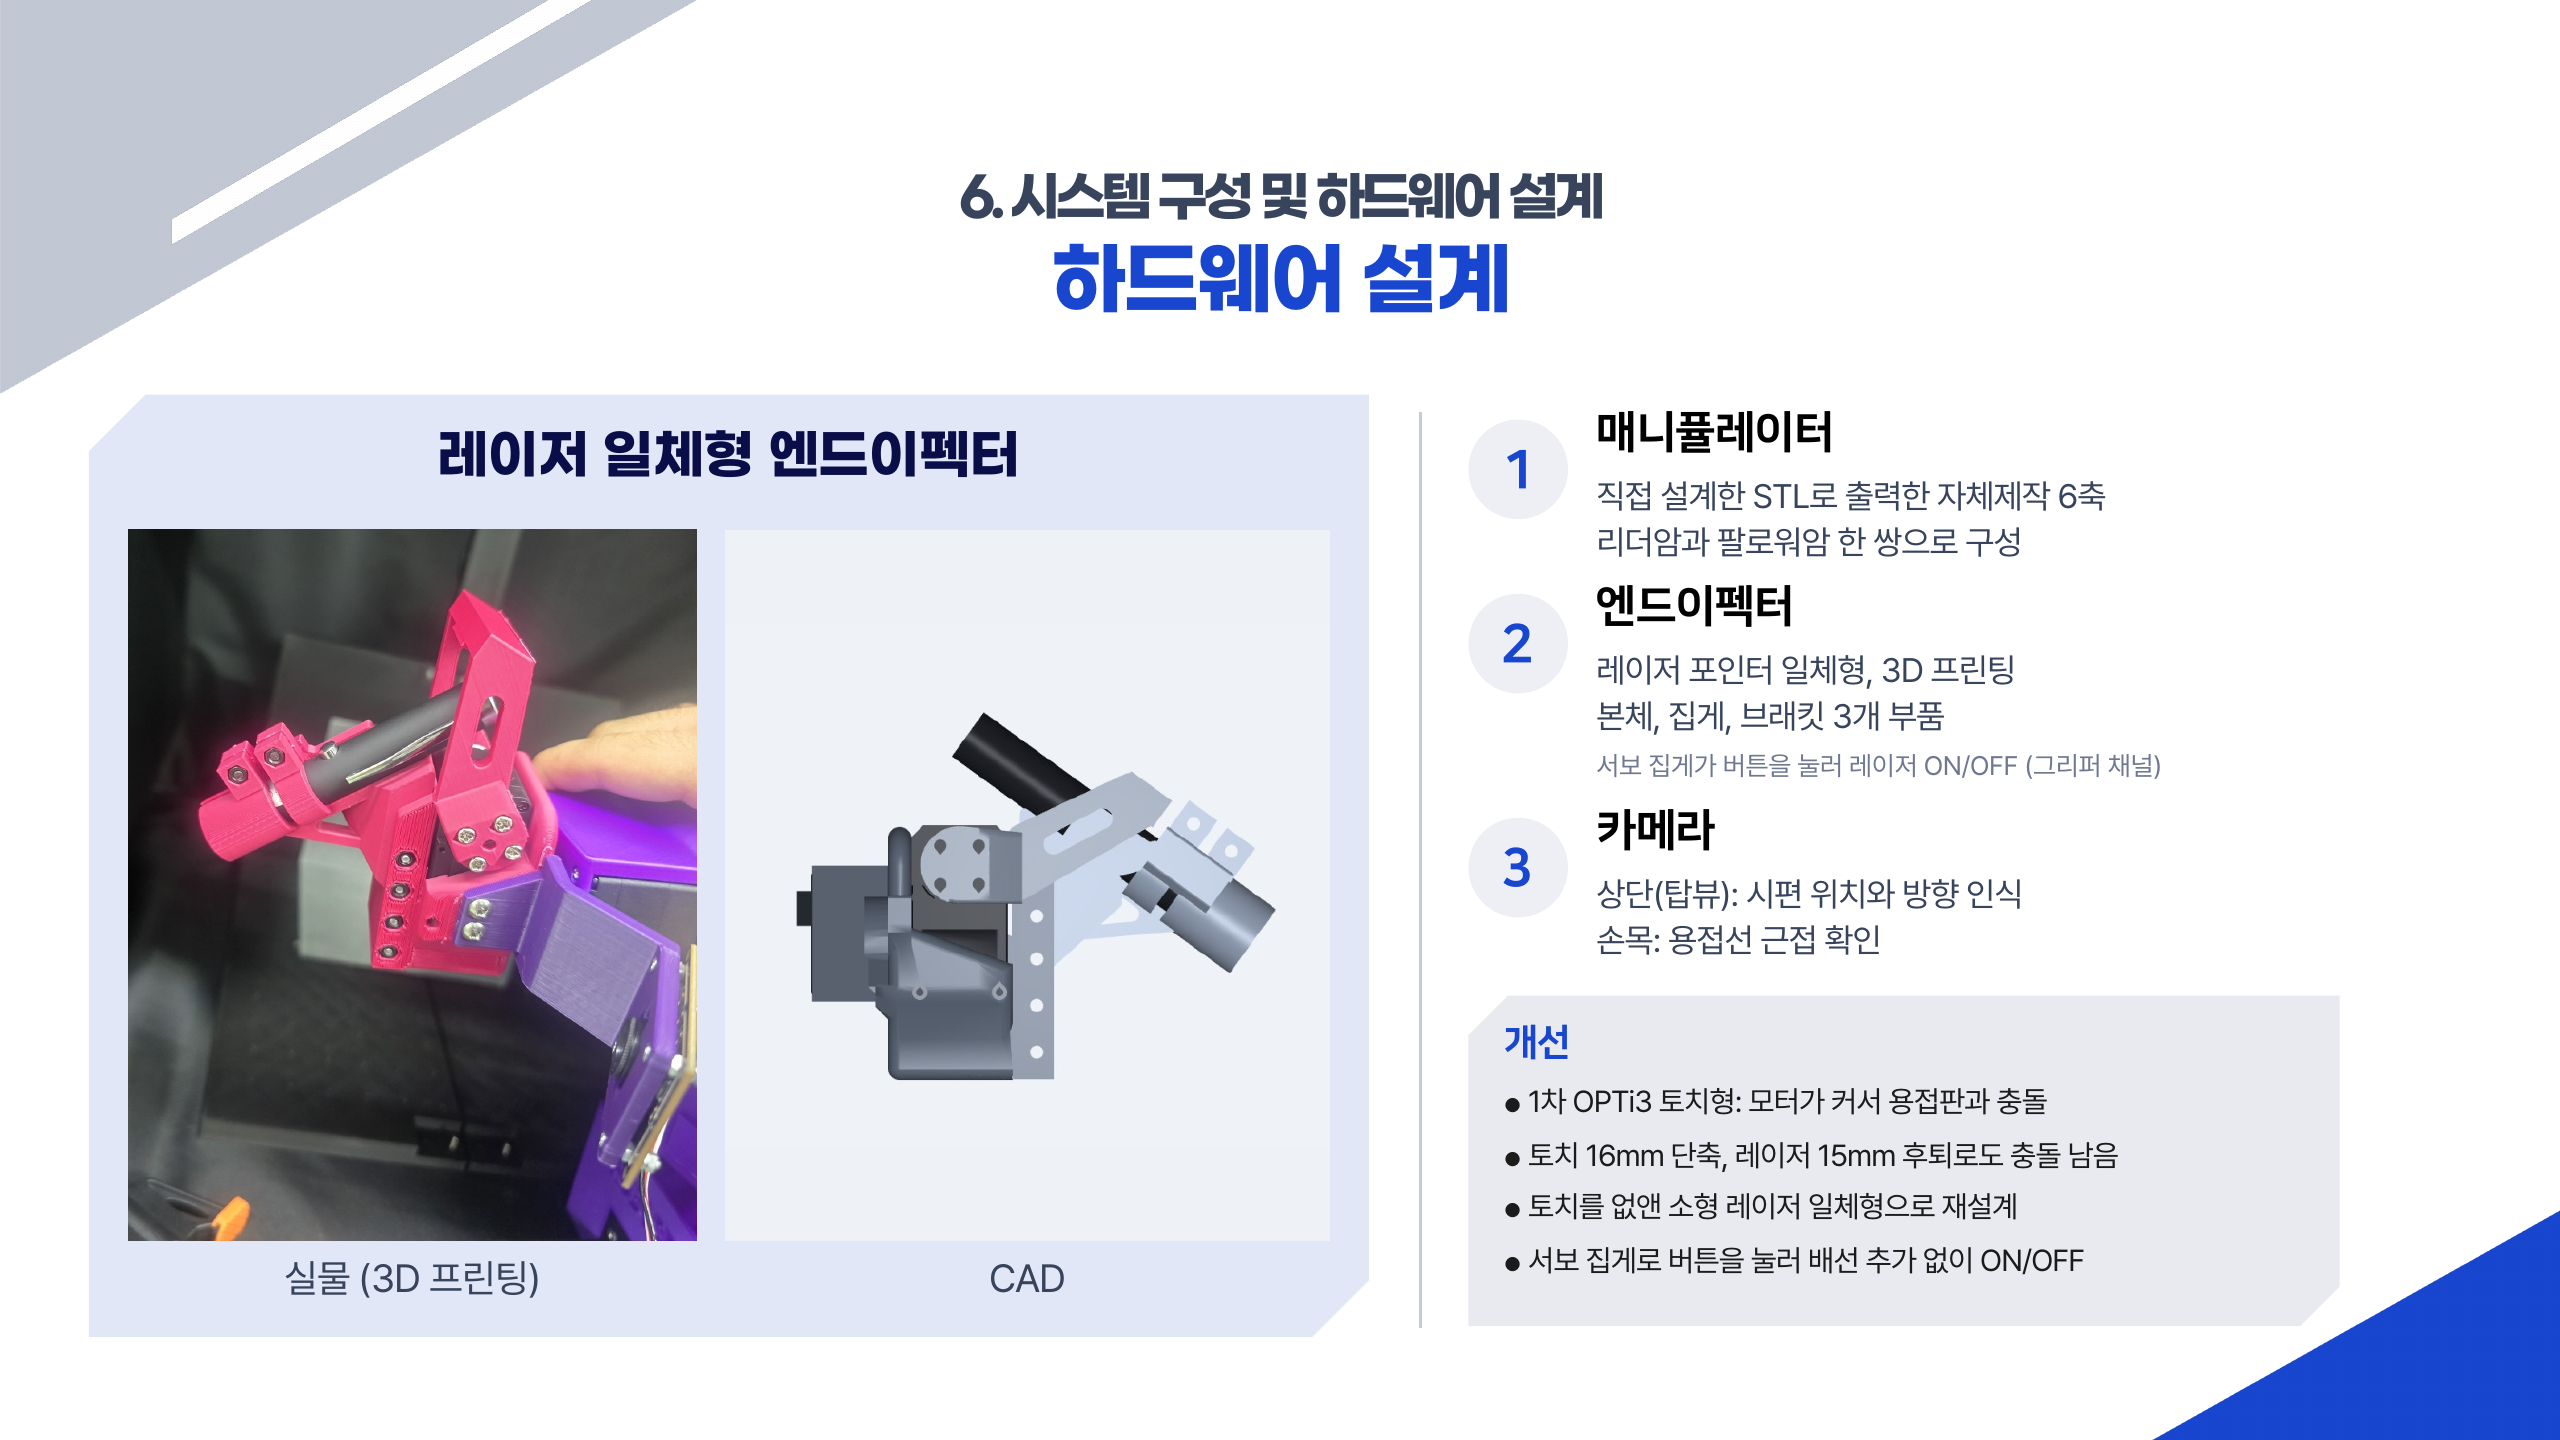
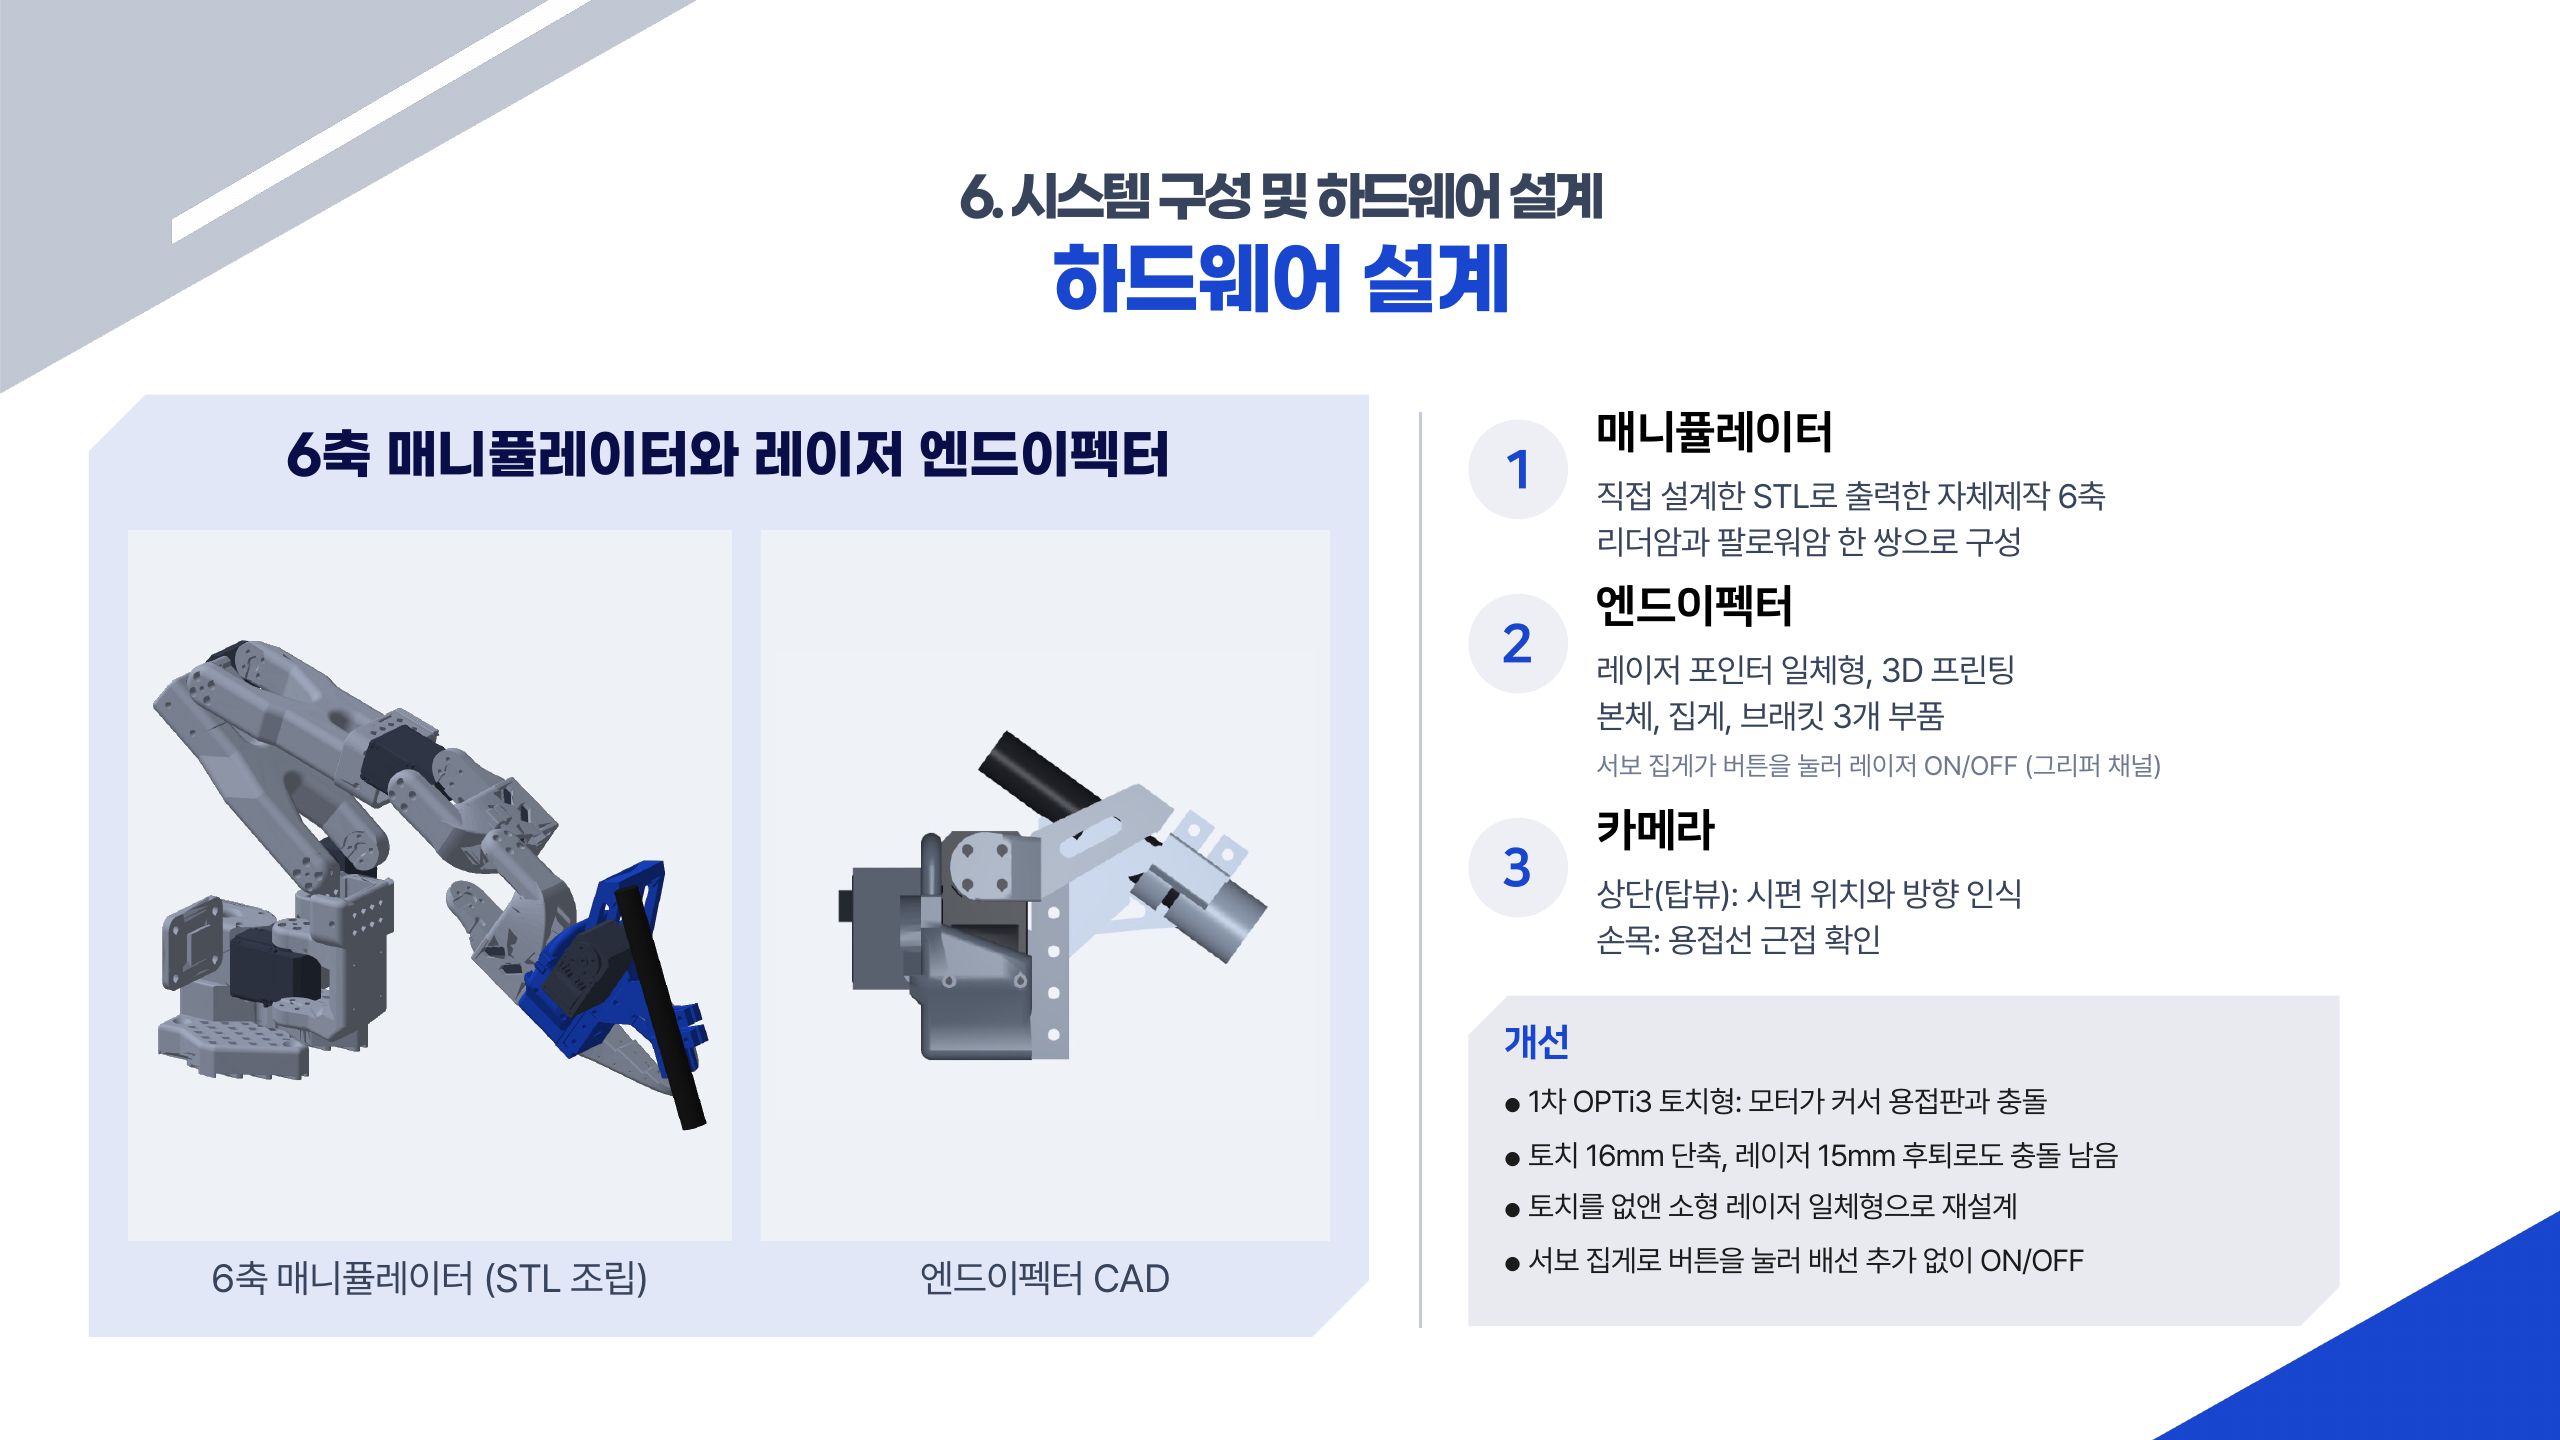
10장 왼쪽을 so102 관절 구조와 엔드이펙터 3MF로 조립한 6축 매니퓰레이터 렌더로 교체, 14장 용접선 추종 정확도로 표기

Changed region(s): [[0.0312, 0.2812, 0.4688, 0.9062], [0.3125, 0.5, 0.5, 0.75], [0.3438, 0.875, 0.4688, 0.9062]]

diff --git a/index.html b/index.html
@@ -56,7 +56,7 @@
   <img class="slide" src="deck/final/07.png" alt="5. 개발 대상 및 자율 작업 시나리오: 수평 접합선에 대응하는 자율용접 작업 구현. 3면 직각 시편과 T형 필릿 시편" loading="lazy">
   <img class="slide" src="deck/final/08.png" alt="6. 시스템 구성 및 하드웨어 설계: 자율용접 로봇 시스템 아키텍처" loading="lazy">
   <img class="slide" src="deck/final/09.png" alt="6. 시스템 구성 및 하드웨어 설계: 역할을 나눈 세 가지 AI. ACT 모방학습(제어), YOLO 용접선 검출(인식과 검증), 손 검출 인터록(안전)" loading="lazy">
-  <img class="slide" src="deck/final/10.png" alt="6. 시스템 구성 및 하드웨어 설계: 하드웨어 설계. 레이저 일체형 엔드이펙터 실물 사진과 CAD, 매니퓰레이터, 엔드이펙터, 카메라, 개선 내용" loading="lazy">
+  <img class="slide" src="deck/final/10.png" alt="6. 시스템 구성 및 하드웨어 설계: 하드웨어 설계. so102 관절 구조와 3D 프린팅 부품으로 조립한 6축 매니퓰레이터 렌더, 엔드이펙터 CAD, 매니퓰레이터, 엔드이펙터, 카메라, 개선 내용" loading="lazy">
   <img class="slide" src="deck/final/11.png" alt="6. 시스템 구성 및 하드웨어 설계: 직접 개선한 기술. 엔드이펙터 설계 변천 v1, v2, v3, 최종 레이저 일체형" loading="lazy">
   <img class="slide" src="deck/final/12.png" alt="7. 실시간 작업 모니터링: 웹 대시보드로 보는 영상과 로봇 상태" loading="lazy">
   <img class="slide" src="deck/final/13.png" alt="7. 실시간 작업 모니터링: YOLO 용접선 검출과 진행 표시, 성공 판정 기준" loading="lazy">

diff --git a/project.html b/project.html
@@ -241,7 +241,7 @@
       <thead><tr><th>정확도 (정답 라벨 비교)</th><th>변환 전</th><th>변환 후</th></tr></thead>
       <tbody>
         <tr><td>키포인트 위치 오차 (중앙값)</td><td>0.93 px</td><td>0.91 px</td></tr>
-        <tr><td>가림 판정 정확도</td><td>97.62 %</td><td>97.70 %</td></tr>
+        <tr><td>용접선 추종 정확도</td><td>97.62 %</td><td>97.70 %</td></tr>
         <tr><td>검출 신뢰도 차이</td><td>-</td><td>평균 0.002</td></tr>
       </tbody>
     </table>
